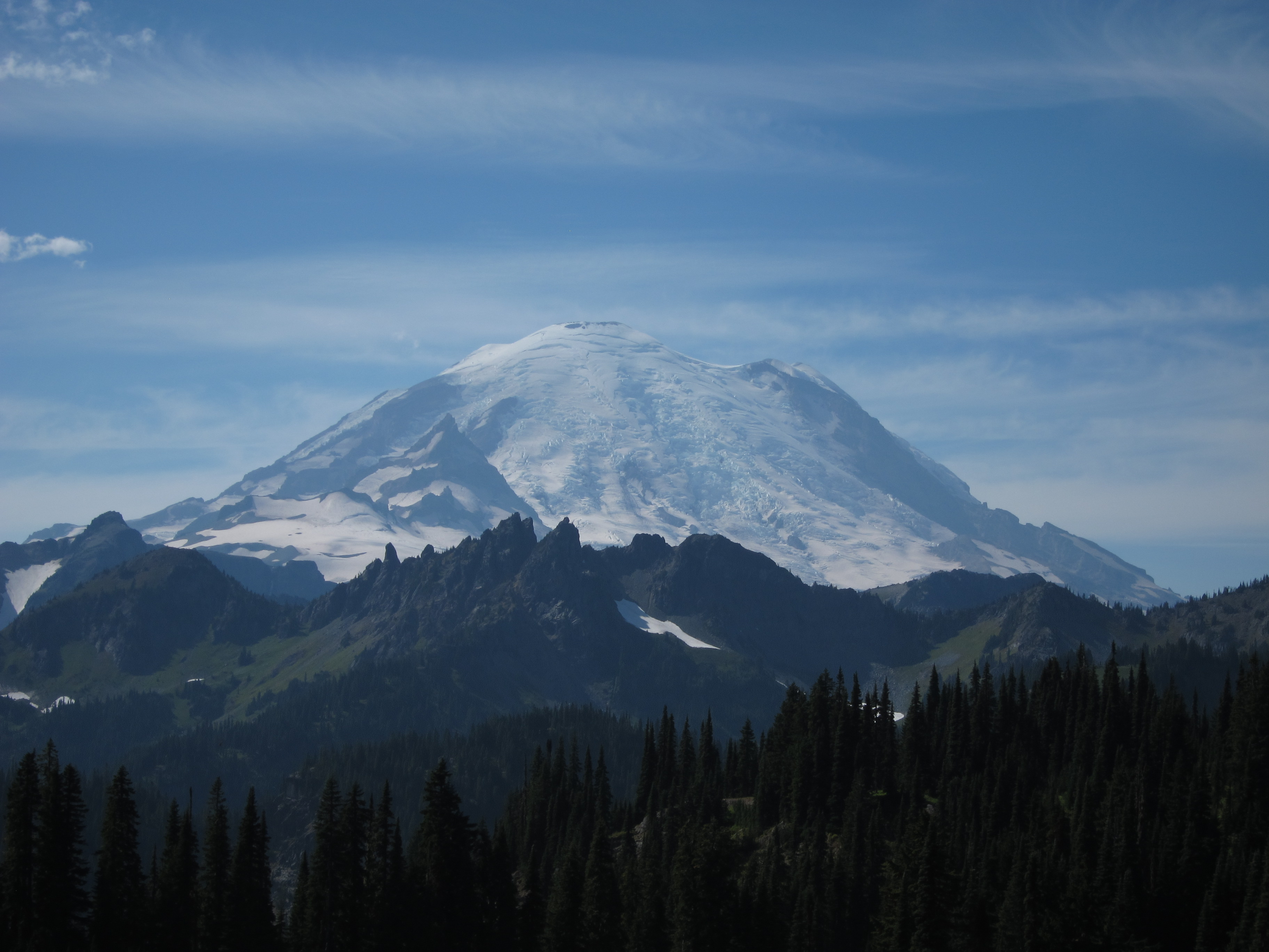
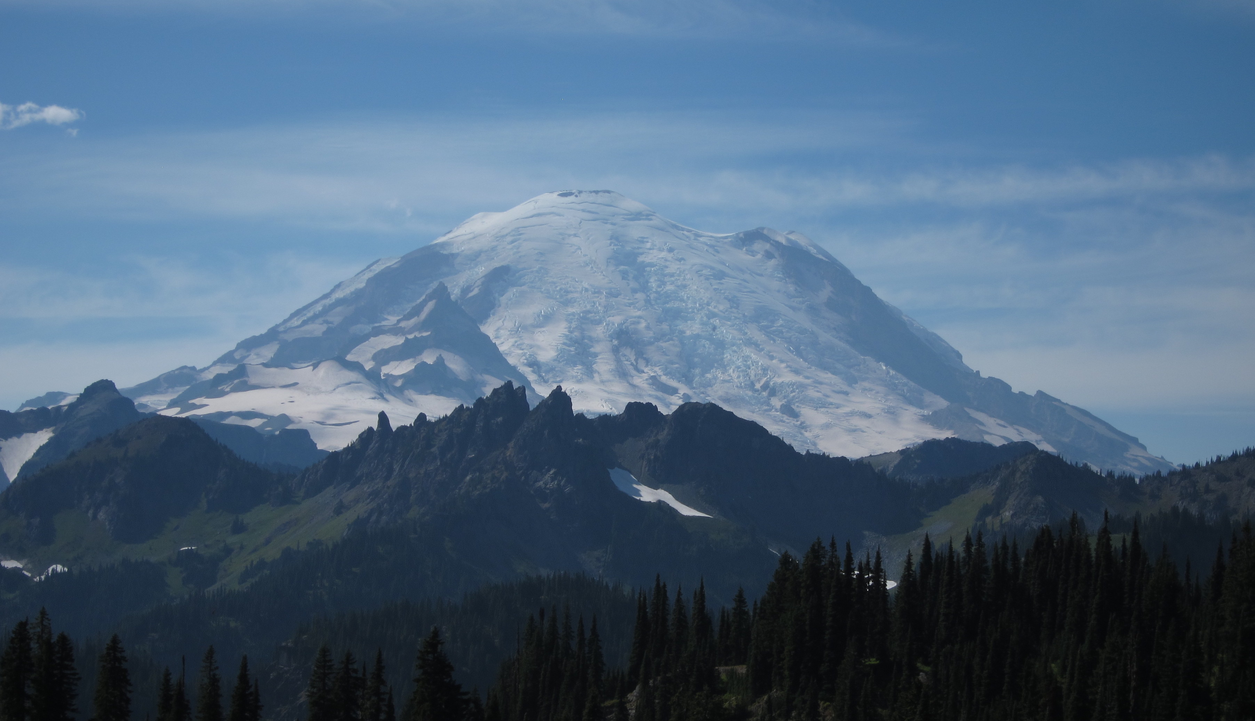
added color palette and background image

diff --git a/src/components/landing/landing.js b/src/components/landing/landing.js
@@ -27,10 +27,10 @@ class Landing extends React.Component {
             </section>
             <section id='about'>
               <h2>About Me</h2>
-              <div>
-                <img src='https://avatars1.githubusercontent.com/u/33847838?s=460&v=4'/>
-              </div>
-              <div>
+              <div id='about-block'>
+                <div id='img-div'>
+                  <img src='https://avatars1.githubusercontent.com/u/33847838?s=460&v=4'/>
+                </div>
                 <p>Hello! I am a full stack software developer with a focus on JavaScript and the MERN stack.</p>
                 <p>After attaining my degree in Biology from the University of Washington, I spent a number of years as a professional poker player traveling the world playing tournaments and developing my strategic problem solving and decision-making skills. I then started a business in Seattle organizing the sport of futsal (a form of indoor soccer, played 5v5 on a wall-less, hard court surface) where I had the opportunity to embrace my entrepreneurial spirit and develop leadership and program management skills, as well as grow our organization to have over 1000 kids playing in our programs per year.</p>
 
@@ -43,13 +43,13 @@ class Landing extends React.Component {
                 <h4>GroupUp</h4>
                 <p>Click on picture to learn more...</p>
                 <img className='groupup-pic' src={groupUpPic} />
-                <p><a href='http://groupup.site'>Visit GroupUp</a></p>
+                <p><a href='http://groupup.site' target='_blank'>Visit GroupUp</a></p>
               </div>
               <div className='sossms'>
                 <h4>SOS-SMS</h4>
                 <p>Click on picture to learn more...</p>
                 <img className='sossms-pic' src='https://howardzuo.gallerycdn.vsassets.io/extensions/howardzuo/vscode-npm-dependency/1.2.0/1519619746611/Microsoft.VisualStudio.Services.Icons.Default' />
-                <p><a href='https://www.npmjs.com/package/sos-sms'>SOS-SMS published on npm</a></p>
+                <p><a href='https://www.npmjs.com/package/sos-sms' target='_blank'>SOS-SMS published on npm</a></p>
               </div>
             </section>
             <section id='contact'>

diff --git a/src/components/landing/landing.scss b/src/components/landing/landing.scss
@@ -6,8 +6,7 @@
   top: 0;
   width: 100%;
   height: 50px;
-  background: red;
-
+  background: $dark-slate;
 }
 
 .footer {
@@ -30,7 +29,7 @@ nav {
   }
 
   p {
-    color: black;
+    color: $off-white;
   }
 
 }
@@ -39,7 +38,6 @@ nav {
   width: 100%;
 }
 section {
-  min-height: 450px;
   width: 100%;
   background-color: blue;
   padding-top: 20px;
@@ -60,38 +58,65 @@ section {
 }
 
 #intro {
-  background: blue;
+  background-image: url('../../assets/mt-rainier1.jpg');
+  background-repeat: no-repeat;
+  background-size: 100%;  
+  min-height: 200px;
   text-align: center;
-  padding-top: 200px;
+  padding-top: 5%;
   h2 {
     margin: auto, auto;
-    font-size: 48px;
+    font-size: 2em;
   }
 
   h3 {
-    font-size: 32px;
+    font-size: 1.5em;
   }
 
   h4 {
-    font-size: 24px;
+    font-size: 1.25em;
+    line-height: 25%;
+  }
+
+  @media (min-width: 660px) {
+    height: 300px;
+  }
+
+  @media (min-width: 900px) {
+      height: 350px;
   }
 }
 
 #about {
-  background: green;
-
-  div {
-    display: inline-block;
-    width: 50%;
-  }
+  background: $dark-slate;
+  color: $off-white;
+  min-height: 350px;
   
   p {
-    padding: 0 40px;
+    padding: 0 30px;
+    font-family: Arial, Helvetica, sans-serif;
+    font-style: none;
+    text-align: left;
+  }
+
+  #about-block {
+    vertical-align: middle;
+    display: inline-block;
+
+    #img-div {
+      float: left;
+      clear: both;
+      max-width: 30%;
+      padding: 30px 30px 30px 30px;
+    }
+    img {
+      border-radius: 25%;
+    }
   }
 }
 
 #projects {
-  background: yellow;
+  background: $light-blue;
 
   div {
     display: inline-block;

diff --git a/src/style/_vars.scss b/src/style/_vars.scss
@@ -5,7 +5,12 @@
 // // -------------------------------------------------------------------------
 // // COLORS
 // // -------------------------------------------------------------------------
-// $off-white: rgb(250, 250, 250);
+$off-white: rgb(250, 250, 250);
+$med-blue: rgb(103, 151, 199);
+$light-blue: #93ACCC;
+$dark-blue: #345C84;
+$lavender-blue: #D3E6F7;
+$dark-slate: #25374E;
   
 // // -------------------------------------------------------------------------
 // // MEDIA QUERIES
